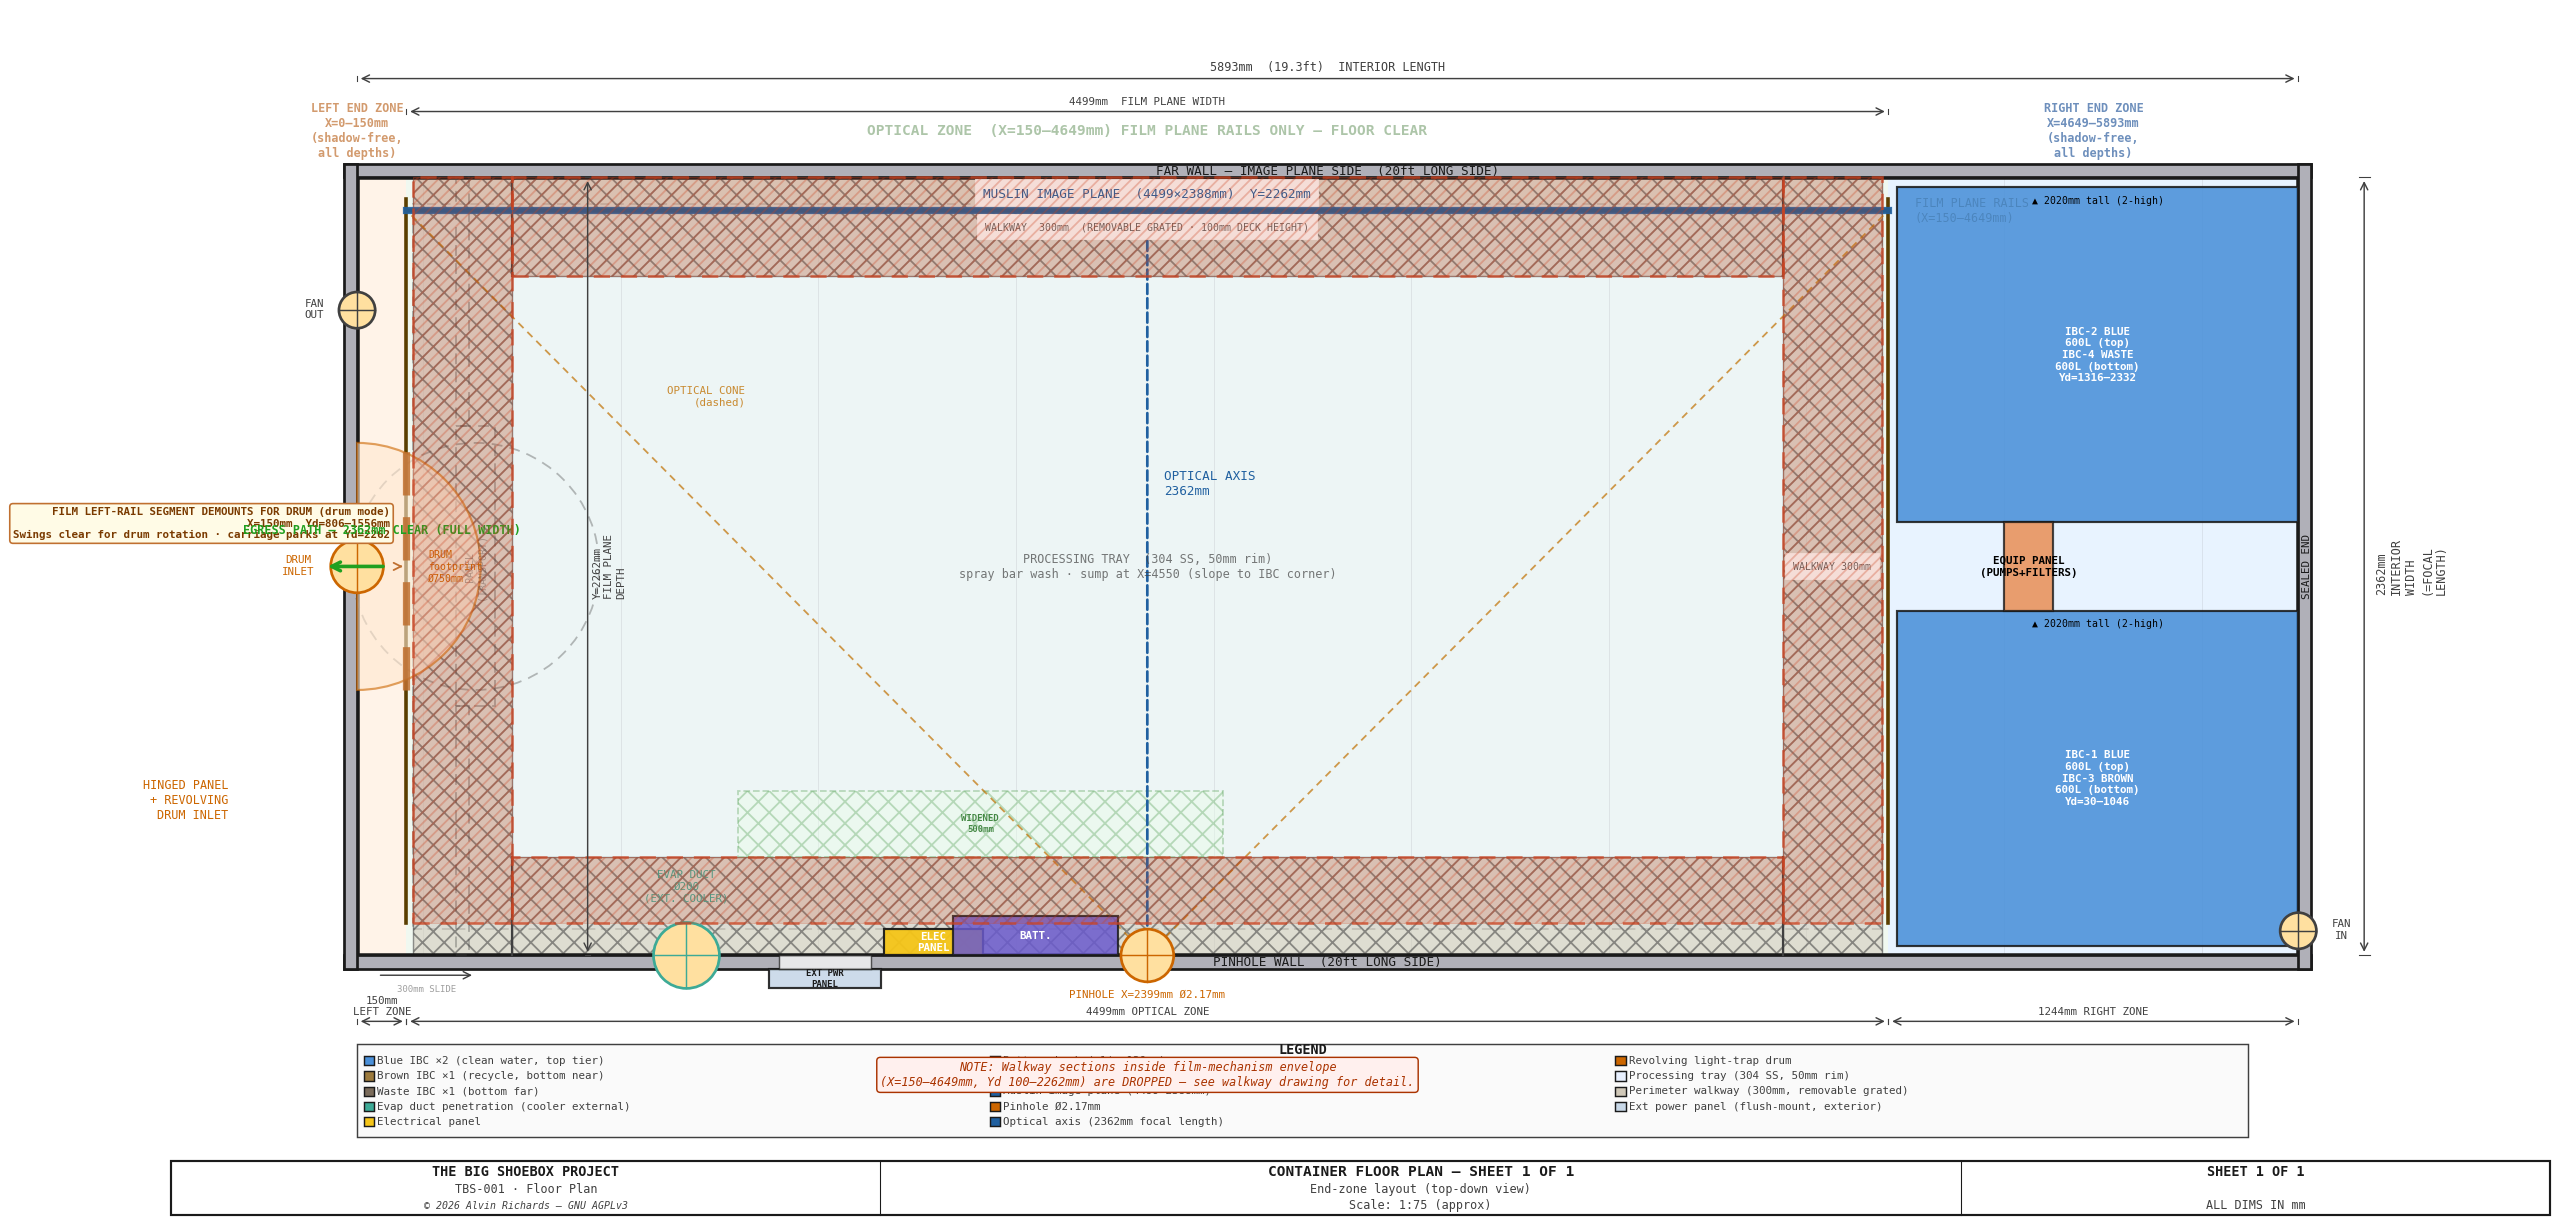
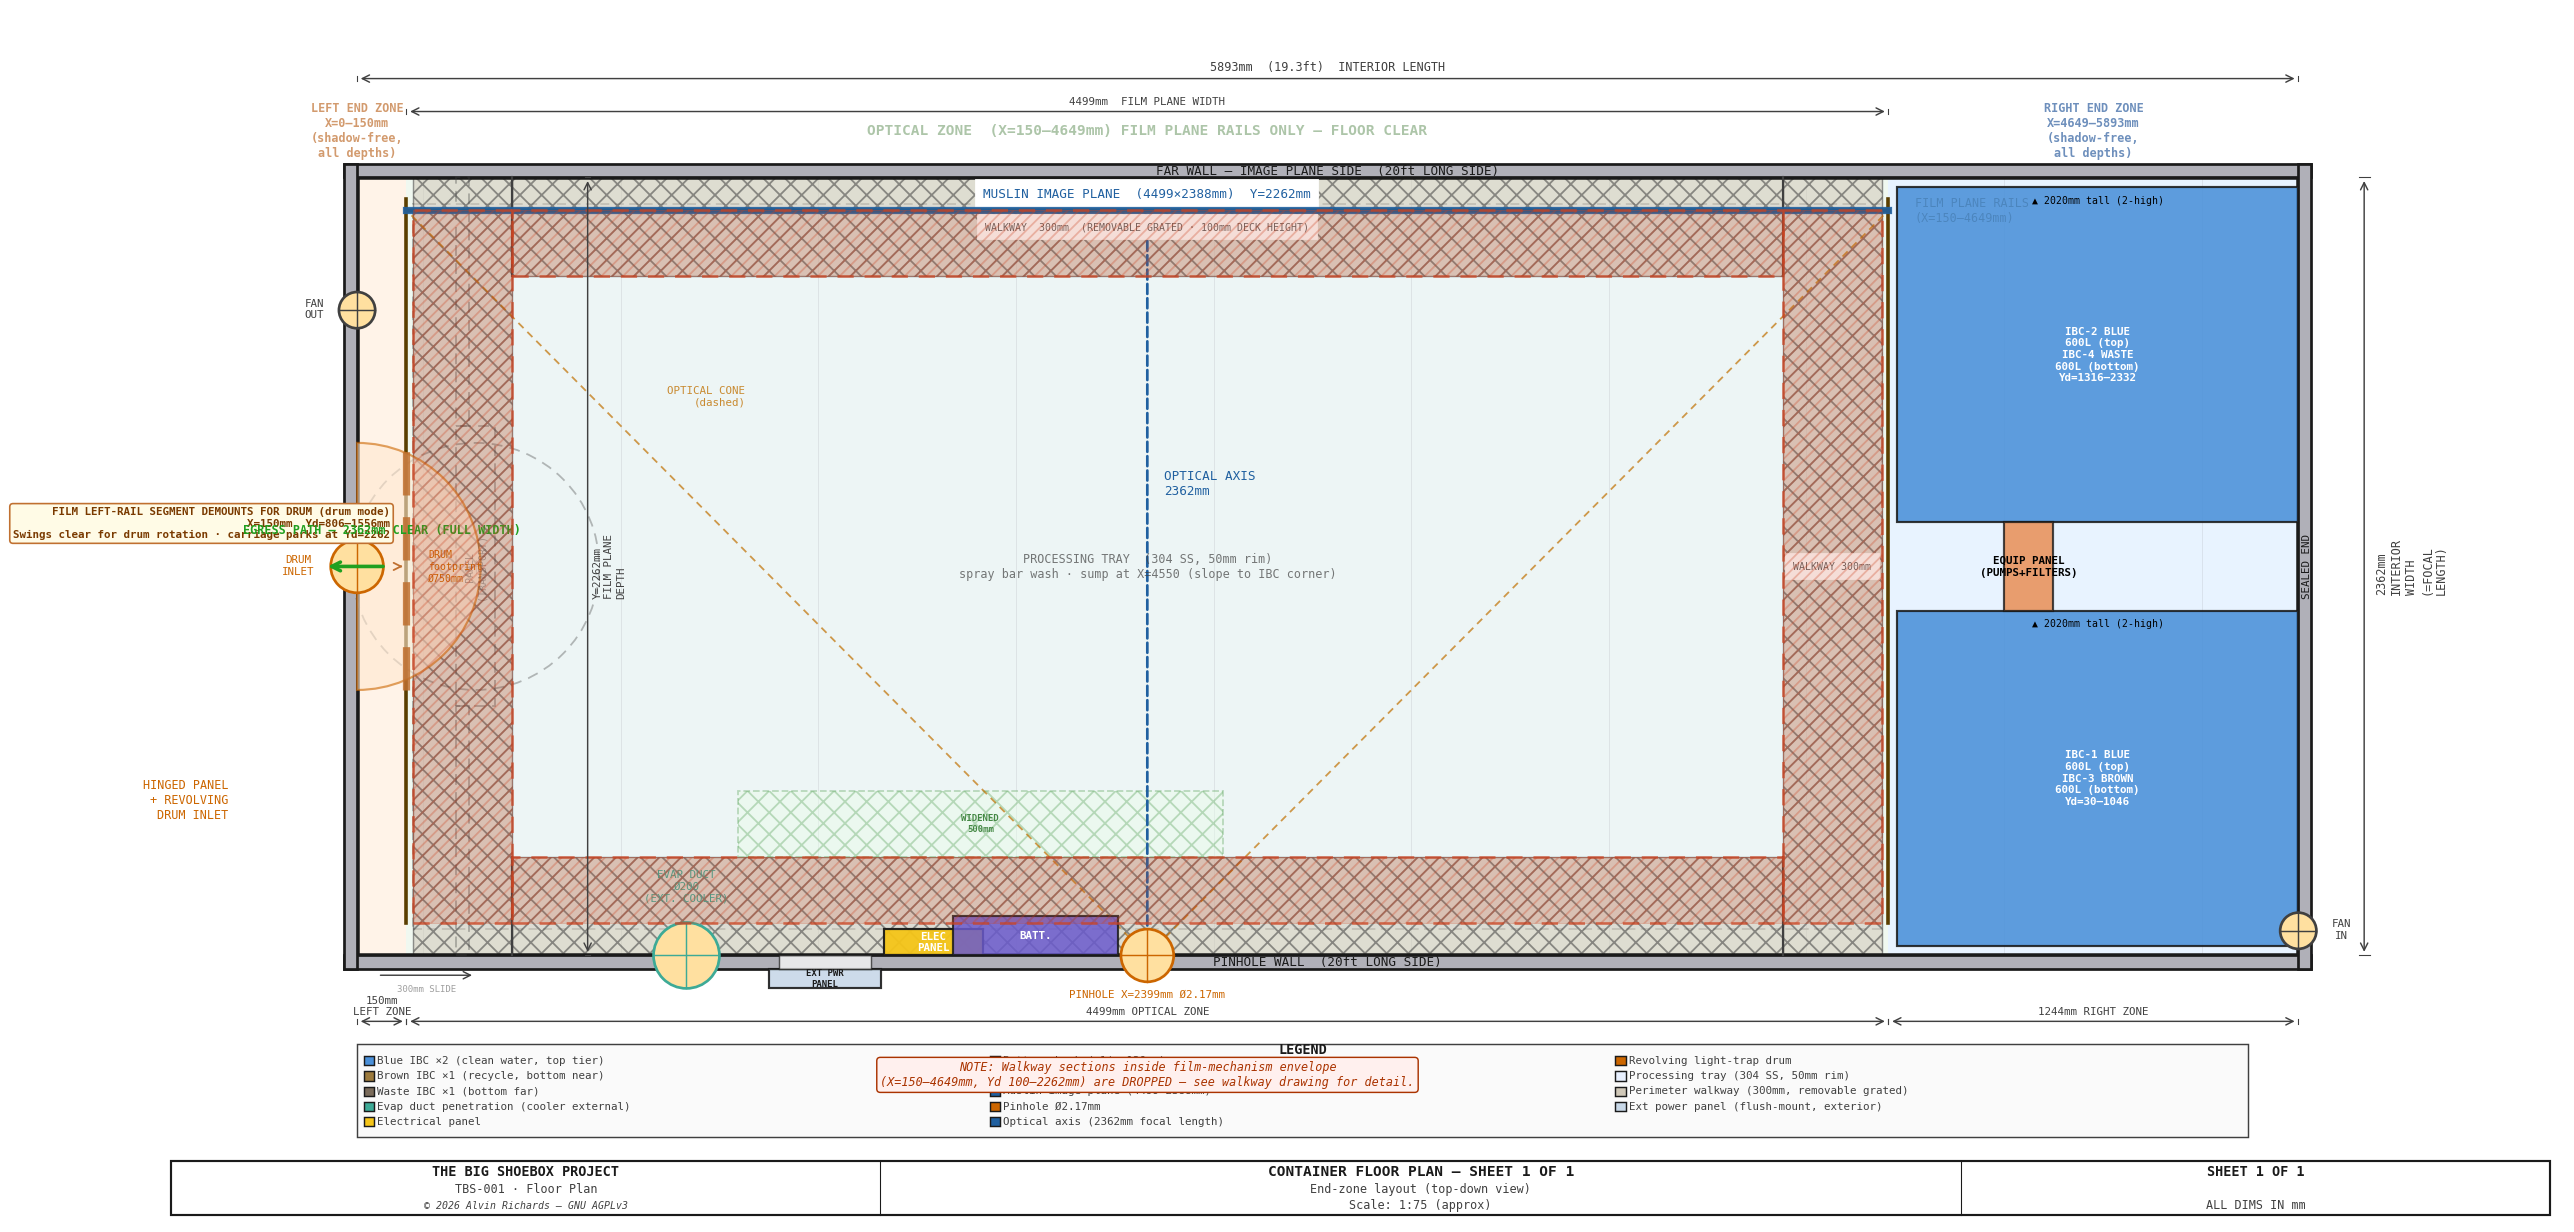
floorplan: fix ghost far boundary to envelope edge 2262 (was over-ghosting to 2362)

Changed region(s): [[0.1554, 0.1234, 0.7459, 0.1851]]

diff --git a/src/generators/generate_floorplan_diagram.py b/src/generators/generate_floorplan_diagram.py
@@ -485,7 +485,7 @@ def floor_plan():
     # (X 150–4649, Yd 100–2262) are permanently removed.  Ghost them with the
     # same treatment as generate_walkway_diagram.py so both drawings agree.
     FM_YD_N = 100    # film-mechanism envelope near Yd boundary
-    FM_YD_F = FYO    # = 2262 (CARRIAGE_PARK_Y = FYO)
+    FM_YD_F = 2262   # film-mechanism envelope far Yd boundary (= FP_Y / CARRIAGE_PARK_Y)
 
     C_GHOST_WK   = "#CC4422"   # red-orange (matches walkway drawing)
     GHOST_WK_A   = 0.18        # ghost fill alpha
@@ -506,7 +506,7 @@ def floor_plan():
 
     # NEAR: inner strip Yd 100–300, full span X 470–4329
     _ghost_rect(ax, LXR, FM_YD_N, RX - LXR, NYI - FM_YD_N)
-    # FAR: inner strip Yd 1962–2262, full span X 470–4329
+    # FAR: inner strip Yd 2062–2262, full span X 470–4329
     _ghost_rect(ax, LXR, FY, RX - LXR, FM_YD_F - FY)
     # LEFT: inner Yd span 100–2262, full width X 170–470
     _ghost_rect(ax, LX, FM_YD_N, W, FM_YD_F - FM_YD_N)
